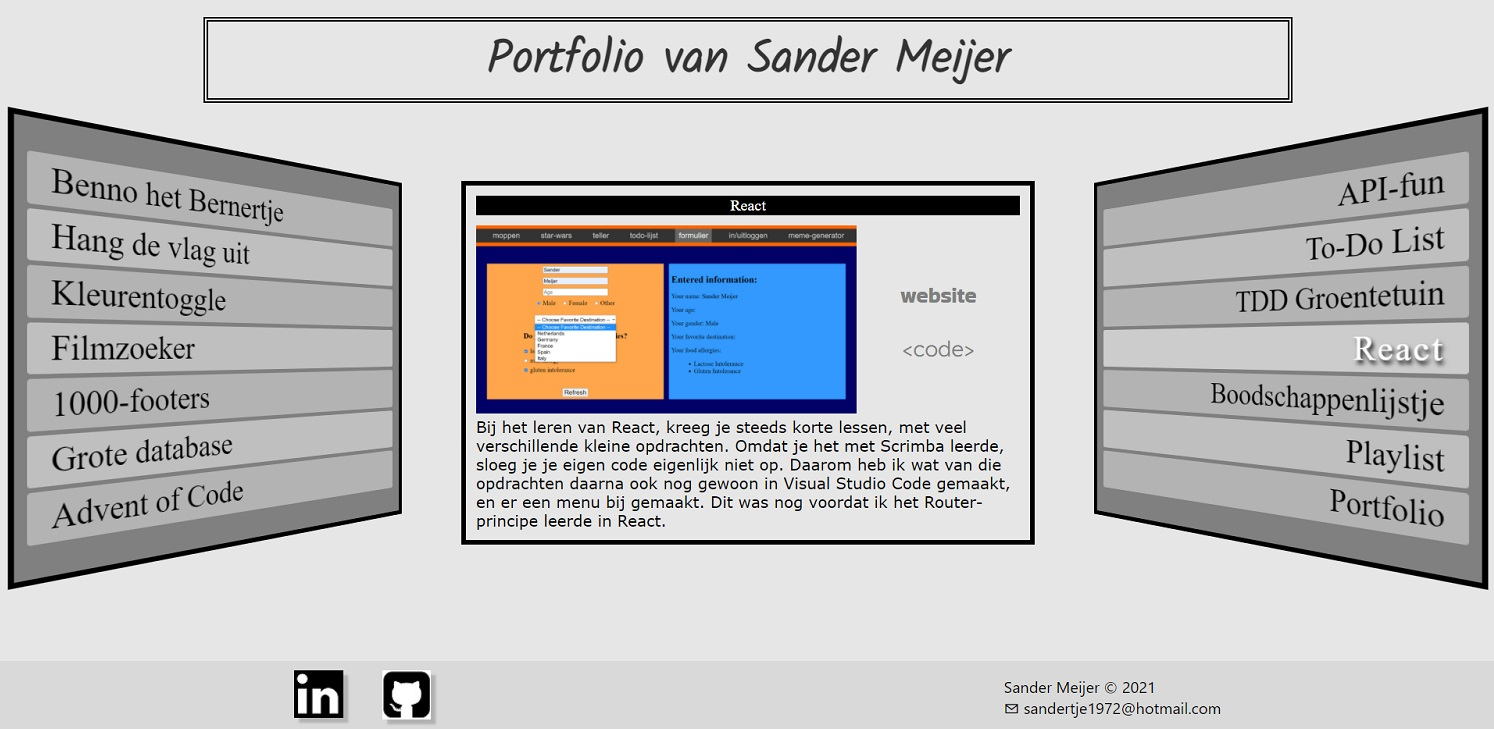
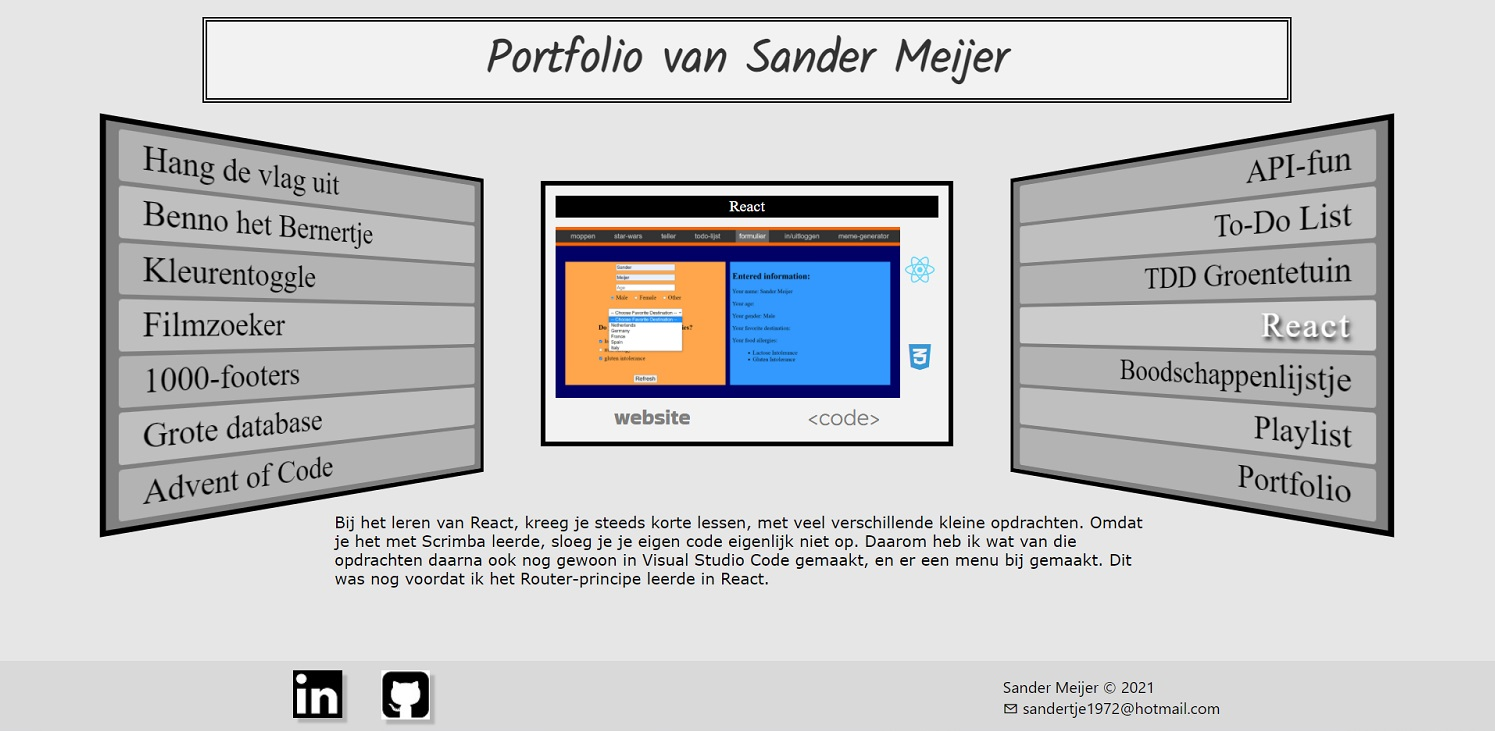
changed layout

diff --git a/data.js b/data.js
@@ -4,6 +4,7 @@ const opdrachten = [
         plaatje: "./images/vlaggen.jpg",
         website: "https://quizzical-lovelace-909ccf.netlify.app/",
         github: "https://github.com/sandermeijer1972/Sander_Meijer-Hang_De_Vlag_Uit",
+        programma: ["html", "css"],
         tekst: "Dit was de eerste opdracht die nagekeken werd. Deze website is alleen met HTML en CSS gemaakt, en moest onderdelen als grid, flexbox en mediaqueries bevatten."
     },
     {
@@ -11,6 +12,7 @@ const opdrachten = [
         plaatje: "./images/benno.jpg",
         website: "https://benno-test-kankervaccin.netlify.app/",
         github: "https://github.com/sandermeijer1972/benno",
+        programma: ["html", "css"],
         tekst: "Onze hond doet mee aan een onderzoek naar een vaccin tegen kanker. Omdat we daar veel vragen over kregen (en nog steeds krijgen) heb ik daar een pagina voor gemaakt, met daarop het hele verhaal. Gemaakt met HTML en CSS."
     },
     {
@@ -18,6 +20,7 @@ const opdrachten = [
         plaatje: "./images/kleurentoggle.jpg",
         website: "https://hungry-ptolemy-2e50ff.netlify.app/",
         github: "https://github.com/sandermeijer1972/Sander_Meijer-Kleurentoggle",
+        programma: ["html", "css", "javascript"],
         tekst: "De eerste grotere opdracht met JavaScript. Hierbij moest gebruik worden gemaakt van DOM-manipulatie. Met behulp van event-listeners moesten er classes toegevoegd en verwijderd worden. Met transities moest het er wat flitsender uitzien allemaal."
     },
     {
@@ -25,6 +28,7 @@ const opdrachten = [
         plaatje: "./images/filmzoeker.jpg",
         website: "https://admiring-goldberg-8a03d3.netlify.app/",
         github: "https://github.com/sandermeijer1972/Sander_Meijer-filmzoeker",
+        programma: ["html", "css", "javascript"],
         tekst: "Bij deze opdracht moest je elementen toevoegen aan de DOM. Alle data stond in een database, en daar moest je ook wat dingen uit filteren."
     },
     {
@@ -32,6 +36,7 @@ const opdrachten = [
         plaatje: "./images/greatlakes.jpg",
         website: "https://great-lakes-1000footers.netlify.app/",
         github: "https://github.com/sandermeijer1972/GreatLakes",
+        programma: ["html", "css", "javascript"],
         tekst: "Nadat ik een tijdje bezig was met React, heb ik voor mezelf nog een website gemaakt met Vanilla JavaScript. Het is de bedoeling dat ik deze zelfde website ook nog ga maken met React."
     },
     {
@@ -39,6 +44,7 @@ const opdrachten = [
         plaatje: "./images/database.jpg",
         website: "https://romantic-thompson-cbba2b.netlify.app/",
         github: "https://github.com/sandermeijer1972/grote_arrays",
+        programma: ["html", "css", "javascript"],
         tekst: "Bij deze opdracht zat een hele grote database. Voor elke sub-opdracht moest je gaan filteren om de juiste gegevens door middel van DOM-manipulatie op de pagina te krijgen. Je leerde hier veel over array-methods, en dan met name map, filter en reduce."
     },
     {
@@ -46,6 +52,7 @@ const opdrachten = [
         plaatje: "./images/advent.jpg",
         website: "https://adventofcode.com/2021",
         github: "https://github.com/sandermeijer1972/Advent_of_Code_2021",
+        programma: ["javascript"],
         tekst: "Vanuit Winc Academy werd je aangemoedigd om aan de jaarlijkse Advent of Code mee te doen. Ik ben er fanatiek aan begonnen, maar merkte al snel dat er wel heel veel tijd in ging zitten. Dus daarna mezelf de opdracht gegeven om tot uiterlijk 11 uur er mee bezig te zijn, en daarna 's avonds pas weer. Niet alle puzzels waren te doen, dus ik kan er nog verder aan coderen."
     },
     {
@@ -53,6 +60,7 @@ const opdrachten = [
         plaatje: "./images/apifun.jpg",
         website: "https://knoppen-pagina.netlify.app/",
         github: "https://github.com/sandermeijer1972/API_fun",
+        programma: ["html", "css", "javascript"],
         tekst: "Bij deze opdracht moest je je data via een API binnen zien te krijgen. Omdat ik moeite had met deze stof, heb ik er uiteindelijk 10 gebruikt. Bij Winc Academy word je ook gestimuleerd om anderen te helpen met coderings-problemen. Op het moment dat ik met deze opdracht bezig was, hielp ik iemand met transities. Omdat die stof bij mij ook aardig weggezakt was, heb ik dat bij deze opdracht weer eens flink opgehaald."
     },
     {
@@ -60,6 +68,7 @@ const opdrachten = [
         plaatje: "./images/todolist.jpg",
         website: "https://sanders-opdrachten.netlify.app/index.html",
         github: "https://github.com/sandermeijer1972/Sander_Meijer-To_Do_List",
+        programma: ["html", "css", "javascript"],
         tekst: "Bij deze opdracht moest je een RESTful-API clonen, zodat je alle handelingen lokaal kon fetchen. De bedoeling van deze opdracht was dat je liet zien dat je GET, POST, PUT en DELETE commando's kon geven aan een API. Omdat de 'server' dus lokaal draait, kon er hier geen website van gemaakt worden. Dus in dit geval heb ik een pagina met wat screenshots gemaakt."
     },
     {
@@ -67,6 +76,7 @@ const opdrachten = [
         plaatje: "./images/groentetuin.jpg",
         website: "https://sanders-groentetuin.netlify.app/",
         github: "https://github.com/sandermeijer1972/Sander_Meijer-TDD_groentetuin",
+        programma: ["html", "css", "javascript", "jest"],
         tekst: "Bij deze opdracht ging het om Test Driven Development. Omdat ik graag aan anderen wil laten zien wat ik zoal maak tijdens de opleiding, heb ik er ook een hele front-end aan vast gemaakt. Je kan dus zelf een groentetuin beginnen, en een schatting maken wat je opbrengst zal zijn."
     },
     {
@@ -74,6 +84,7 @@ const opdrachten = [
         plaatje: "./images/react.jpg",
         website: "https://elegant-galileo-988d19.netlify.app/",
         github: "https://github.com/sandermeijer1972/react-module-8/tree/master/src/opdrachten/combi",
+        programma: ["react", "css"],
         tekst: "Bij het leren van React, kreeg je steeds korte lessen, met veel verschillende kleine opdrachten. Omdat je het met Scrimba leerde, sloeg je je eigen code eigenlijk niet op. Daarom heb ik wat van die opdrachten daarna ook nog gewoon in Visual Studio Code gemaakt, en er een menu bij gemaakt. Dit was nog voordat ik het Router-principe leerde in React."
     },
     {
@@ -81,6 +92,7 @@ const opdrachten = [
         plaatje: "./images/boodschappen.jpg",
         website: "https://boodschappendoen.netlify.app/",
         github: "https://github.com/sandermeijer1972/react-module-8/tree/master/src/opdrachten/boodschappenlijst",
+        programma: ["react", "css"],
         tekst: "De eerste react-opdracht die je in Visual Studio Code moest maken. Een erg leuke opdracht, maar wel moeilijk."
     },
     {
@@ -88,6 +100,7 @@ const opdrachten = [
         plaatje: "./images/playlist.jpg",
         website: "https://sanders-playlist.netlify.app/",
         github: "https://github.com/sandermeijer1972/Sander_Meijer-Lil-Playlist",
+        programma: ["react", "css"],
         tekst: "Bij deze opdracht moest je ook gebruik maken van React-Router. Omdat het een opdracht met muziek was, was dit echt een hele leuke opdracht."
     },
     {
@@ -95,6 +108,7 @@ const opdrachten = [
         plaatje: "./images/portfolio.jpg",
         website: "https://sandermeijer.netlify.app/",
         github: "https://github.com/sandermeijer1972/portfolio",
+        programma: ["html", "css", "javascript"],
         tekst: "Ook de code van deze portfolio-pagina deel ik hier. Ik kijk graag naar filmpjes van Kevin Powell, de CSS-koning. Ik hou zelf ook veel van CSS, je raakt daarbij nooit uitgekeken op de mogelijkheden, en elke dag ontdek je wel weer wat nieuws."
     },    
 ];

diff --git a/script.js b/script.js
@@ -1,15 +1,65 @@
-const naam = document.getElementById("naam");
-const screenshot = document.getElementById("screenshot");
-const website = document.getElementById("website");
-const code = document.getElementById("code");
+const info = document.getElementById("info");
 const uitleg = document.getElementById("uitleg");
 
 const showInfo = (number) => {
-    naam.innerText = opdrachten[number].titel;
-    screenshot.src = opdrachten[number].plaatje;
-    website.href = opdrachten[number].website;
-    code.href = opdrachten[number].github;
+    info.innerHTML = "";
+    uitleg.innerHTML = "";
+    const newDivNaam = document.createElement('div');
+    newDivNaam.classList.add("naam");
+    newDivNaam.innerText = opdrachten[number].titel;
+    info.appendChild(newDivNaam);
+    const newDivScreen = document.createElement('div');
+    newDivScreen.classList.add("screen");
+    const newImg = document.createElement('img');
+    newImg.alt = "screenshot";
+    newImg.src = opdrachten[number].plaatje;
+    newDivScreen.appendChild(newImg);
+    info.appendChild(newDivScreen);
+    const newDivLinks = document.createElement('div');
+    newDivLinks.classList.add("links");
+    const newAWebsite = document.createElement('a');
+    newAWebsite.classList.add("website");
+    newAWebsite.innerText = "website";
+    newAWebsite.target = "_blank";
+    newAWebsite.href = opdrachten[number].website;
+    newDivLinks.appendChild(newAWebsite);
+    const newAGithub = document.createElement('a');
+    newAGithub.classList.add("code");
+    newAGithub.innerText = "code";
+    newAGithub.target = "_blank";
+    newAGithub.href = opdrachten[number].github;
+    newDivLinks.appendChild(newAGithub);
+    info.appendChild(newDivLinks);
+    const newDivProgs = document.createElement('div');
+    newDivProgs.classList.add("progs");
+    const programma = opdrachten[number].programma;
+    programma.forEach(item => {
+        if (item === "jest") {
+            const newIcon = document.createElement('img');
+            newIcon.src = "./images/jest.svg";
+            newDivProgs.appendChild(newIcon);
+        } else {
+            const newIcon = document.createElement('i');
+            newIcon.classList.add("fab");
+            if (item === "html") {
+                newIcon.classList.add("fa-html5");
+                newIcon.style = "color:#ff5722";
+            } else if (item === "css") {
+                newIcon.classList.add("fa-css3-alt");
+                newIcon.style = "color:#379ad6";
+            } else if (item === "javascript") {
+                newIcon.classList.add("fa-js-square");
+                newIcon.style = "color:#f7df1e";
+            } else if (item === "react") {
+                newIcon.classList.add("fa-react");
+                newIcon.style = "color:#61dbfb";
+            };
+            newDivProgs.appendChild(newIcon);
+        };
+    });
+    info.appendChild(newDivProgs);
     uitleg.innerText = opdrachten[number].tekst;
+    
 };
 
 const vlag = document.getElementById("vlag");
@@ -81,4 +131,3 @@ const portfolio = document.getElementById("portfolio");
 portfolio.addEventListener("click", () => {
     showInfo(13);
 });
-

diff --git a/index.html b/index.html
@@ -11,6 +11,7 @@
     <title>Portfolio Sander Meijer</title>
     <script defer src="data.js"></script>
     <script defer src="script.js"></script>
+    <script src="https://kit.fontawesome.com/3007742baa.js" crossorigin="anonymous"></script>
 </head>
 <body>
     <header>        
@@ -27,17 +28,20 @@
             <div class="tekst" id="advent">Advent of Code</div>           
         </div>
         <div class="midden">
-            <div id="naam">React</div>
-            <div class="screen">
-                <img alt="screenshot" id="screenshot" src="./images/test.jpg">
-            </div>
-            <div class="links">
-                <a id="website" href="https://www.google.com" target="_blank">website</a>
-                <a id="code" href="https://www.google.com" target="_blank">code</a>
-            </div>
-            <div id="uitleg">
-                Bij het leren van React, kreeg je steeds korte lessen, met veel verschillende kleine opdrachten. Omdat je het met Scrimba leerde, sloeg je je eigen code eigenlijk niet op. Daarom heb ik wat van die opdrachten daarna ook nog gewoon in Visual Studio Code gemaakt, en er een menu bij gemaakt. Dit was nog voordat ik het Router-principe leerde in React.                
-            </div>
+            <div id="info">
+                <!-- <div class="naam">React</div>
+                <div class="screen">
+                    <img alt="screenshot" src="./images/test.jpg">
+                </div>
+                <div class="links">
+                    <a class="website" href="https://www.google.com" target="_blank">website</a>
+                    <a class="code" href="https://www.google.com" target="_blank">code</a>
+                </div>
+                <div class="progs">
+                    <i class="fab fa-react" style="color:#61dbfb"></i>
+                    <i class="fab fa-css3-alt" style="color:#379ad6"></i>                
+                </div> -->
+            </div>            
         </div>
         <div class="schuin-rechts">
             <div class="tekst" id="api">API-fun</div>
@@ -48,7 +52,10 @@
             <div class="tekst" id="playlist">Playlist</div>  
             <div class="tekst" id="portfolio">Portfolio</div>         
         </div>
-    </div>    
+    </div>   
+    <div id="uitleg">
+        <!-- Bij het leren van React, kreeg je steeds korte lessen, met veel verschillende kleine opdrachten. Omdat je het met Scrimba leerde, sloeg je je eigen code eigenlijk niet op. Daarom heb ik wat van die opdrachten daarna ook nog gewoon in Visual Studio Code gemaakt, en er een menu bij gemaakt. Dit was nog voordat ik het Router-principe leerde in React. -->
+    </div> 
     <footer>
         <div class="icons">
             <a href="https://www.linkedin.com/in/sander-meijer-62867a200/" target="_blank"><img src="./images/linkedin.jpg"></a>

diff --git a/styles.css b/styles.css
@@ -30,7 +30,8 @@ h1 {
     display: flex;
     flex-direction: row;
     justify-content: center;
-    margin: 50px 25px 0;
+    margin: 50px auto 0;
+    max-width: 1300px;
 }
 
 .tekst {
@@ -83,20 +84,23 @@ h1 {
 }
 
 .midden {
-    width: 45%;
+    width: 35%;    
+}
+
+#info {
     margin-top: 30px;
     padding: 10px;
     border: 5px solid black;
     background-color: #f2f2f2;
     display: grid;
-    grid-template: auto auto 1fr / 70% 30%;
+    grid-template: auto auto 1fr / 90% 10%;
     grid-template-areas: 
     "H H"
-    "P L"
-    "T T";
+    "P I"
+    "L L";
 }
 
-#naam {
+.naam {
     grid-area: H;
     text-align: center;
     color: white;
@@ -112,47 +116,61 @@ h1 {
 .links {
     grid-area: L;
     display: flex;
-    flex-direction: column;
+    flex-direction: row;
     align-items: center;
-    justify-content: center;
-    gap: 25px;
+    justify-content: space-around;
 }
 
-#website {
+.website {
     text-decoration: none;
     font-family: 'Bakbak One', cursive;
     font-size: 22px;
     color: #808080;
 }
 
-#website:hover {
+.website:hover {
     text-decoration: none;
     color: black;
 }
 
-#code {
+.code {
     text-decoration: none;
     font-family: 'Readex Pro', sans-serif;
     font-size: 22px;
     color: #808080;
 }
 
-#code::before {
+.code::before {
     content: "<";
 }
 
-#code::after {
+.code::after {
     content: ">";
 }
 
-#code:hover {
+.code:hover {
     text-decoration: none;
     color: black;
     font-weight: bold;
 }
 
+.progs {
+    grid-area: I;
+    display: flex;
+    flex-wrap: nowrap;
+    flex-direction: column;
+    align-items: center;
+    justify-content: space-around;
+    font-size: 30px;
+}
+
+.progs img {
+    width: 28px;
+}
+
 #uitleg {
-    grid-area: T;
+    width: 55vw;
+    margin: 15px auto;
     font-size: 16px;
     font-family: Verdana, Geneva, Tahoma, sans-serif;
 }
